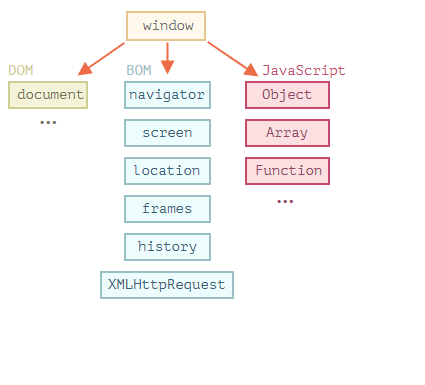
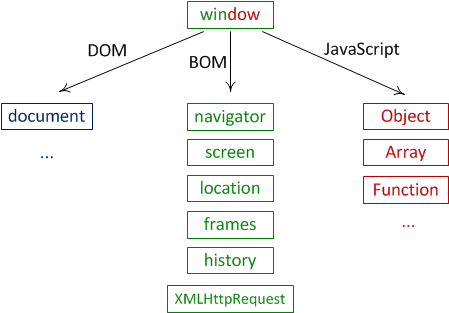
docs : Update contents

diff --git a/WEB/Document Object Model.md b/WEB/Document Object Model.md
@@ -1,0 +1,138 @@
+# DOM(Document Object Model)
+
+> DOM(문서 객체 모델 : Document Object Model)
+
+텍스트 파일로 만들어져 있는 웹 문서를 브라우저에 렌더링하려면 웹 문서를 브라우저가 이해할 수 있는 구조로 메모리에 올려야 한다. 브라우저의 렌더링 엔진은 웹 문서를 로드한 후, 파싱하여 웹 문서를 브라우저가 이해할 수 있는 구조로 구성하여 메모리에 적재하는 데 이를 DOM이라고 한다. 즉, **모든 요소와 요소의 속성, 텍스트를 각각의 객체로 만들고 이들 객체를 부모 관계로 표현할 수 있는 트리 구조로 구성한 것이 DOM이다.** DOM은 자바스크립트를 통해 동적으로 변경할 수 있으며 변경된 DOM은 렌더링에 반영된다.
+
+<center>
+
+![dom](../images/web_dom.png)
+<small>브라우저는 웹 문서(HTML, XML, SVG)를 로드한 후, 파싱하여 DOM을 생성한다.</small>
+
+</center>
+
+DOM은 자바스크립트가 자신에게 접근해서 수정하는 방법을 제공하는데 이를 DOM API(Application Programming Interface)라고 부른다. 이 말인즉슨 정적인 웹 페이지에 접근하여 동적으로 웹 페이지를 변경하기 위한 방법은 메모리 상에 존재하는 DOM을 변경하는 것이고, 이때 필요한 것이 DOM에 접근하고 변경하는 프로퍼티와 메서드의 집합인 DOM API이다.
+
+<center>
+
+DOM은 HTML과 JavaScript를 이어주는 진입점과 같은 역할을 한다.
+
+![dom-sceond](..images/../../images/web_dom2.png)
+
+</center>
+
+# DOM tree
+
+![dom-tree](../images/web_dom_tree.png)
+
+DOM tree는 브라우저가 HTML 문서를 로드한 후 파싱하여 생성하는 모델을 의미한다. 계층 간의 구조가 나무가 뿌리를 내리듯이 위에서 아래로 뻗는 형태로 되어 있는데 이것을 나무에 비유해서 DOM tree라고 표현한다.
+
+DOM에서 모든 요소, 속성, 텍스트는 하나의 객체이며 각각의 객체를 노드(Node)라고 칭한다. 모든 노드는 document 객체의 자식이다. 또한 각 노드 간의 위치 관계를 `부모 노드(parent node), 자식 노드(child node), 형제 노드(sibling node)`로 표현할 수 있다.
+
+- document
+  - parent node
+    - child node
+    - sibling node
+
+DOM tree는 대표적으로 네 종류의 노드로 구성된다.
+
+- 문서 노드 (Document Node) : DOM tree의 최상위 노드
+
+  - 각각의 요소, 속성, 텍스트 노드에 접근하려면 문서 노드를 통해야 함.
+
+- 요소 노드 (Element Node) : HTML 태그를 표현하는 노드
+
+  - ex. `<body>, <h1>, <p>` 등과 같은 각종 tags
+
+- 어트리뷰트 노드(Attribute Node) : HTML 요소의 속성을 표현하는 노드
+
+  - 해당 요소 노드를 찾아 접근하면 속성을 수정할 수 있다.
+
+- 텍스트 노드 (Text Node) : 문자를 표현하는 노드
+  - ex. `<h1> tag 내부의 안녕하세요` 와 같은 문자
+  - 요소 노드의 자식 요소가 되며 따로 자식 노드를 가질 수 없다.
+  - 이를 나무의 잎사귀에 비유해서 leaf node라고 부르기도 한다.
+
+## 접근 메서드
+
+id 속성으로 노드 선택하기
+
+```js
+document.getElementById("id");
+// 하나의 id tag를 선택할 때 사용된다.
+```
+
+class 속성으로 노드 선택하기
+
+```js
+document.getElementsByClassName("class");
+// 여러 tag를 한 번에 선택할 때 사용된다.
+```
+
+css 선택자로 노드 선택하기
+
+```js
+document.querySelector("(#, .) css selector");
+// 하나의 요소 선택
+document.querySelectorAll("(#, .) css selector");
+// 여러 개의 요소 선택
+```
+
+## DOM 이동 시 활용 가능한 탐색 프로퍼티
+
+탐색 프로퍼티를 사용하면 이웃 노드로 바로 이동할 수 있다.
+
+- 모든 노드에 적용 가능
+
+  |       프로퍼티       |   유형    |                       결과                       |
+  | :------------------: | :-------: | :----------------------------------------------: |
+  |   node.childNodes    | 자식 노드 |         node의 자식 노드 모음(NodeList)          |
+  |   node.firstChild    | 자식 노드 |          node의 첫 번째 자식 노드 하나           |
+  |    node.lastChild    | 자식 노드 |           node의 마지막 자식 노드 하나           |
+  |   node.parentNode    | 부모 노드 |              node의 부모 요소 하나               |
+  | node.previousSibling | 형제 노드 | node의 이전(previous) 혹은 좌측에 있는 노드 하나 |
+  |   node.nextSibling   | 형제 노드 |   node의 다음(next) 혹은 우측에 있는 노드 하나   |
+
+- 요소 노드에만 적용 가능
+  | 프로퍼티 | 유형 | 결과 |
+  | :----------------------------: | :------------: | :-------------------------------------------------: | --- |
+  | element.children | 자식 요소 노드 | element의 자식 요소 모음(HTMLCollection) |
+  | element.firstElementChild | 자식 요소 노드 | element의 첫 번째 자식 요소 하나 | |
+  | element.lastElementChild | 자식 요소 노드 | element의 마지막 자식 요소 하나 | |
+  | element.parentElement | 부모 요소 노드 | element의 부모 요소 하나 | |
+  | element.previousElementSibling | 형제 요소 노드 | element의 이전(previous) 혹은 좌측에 있는 요소 하나 | |
+  | element.nextElementSibling | 형제 요소 노드 | element의 다음(next) 혹은 우측에 있는 요소 하나 |
+  | |
+
+## HTML 콘텐츠 조작
+
+HTML 문서를 객체로 표현한 DOM의 각 노드들은 다양한 프로퍼티를 갖고 있다. HTML 콘텐츠를 조작하기 위해 아래와 같은 메서드를 사용할 수 있다.
+
+innerHTML 프로퍼티
+
+```js
+const myTag = document.querySelector("#list-1");
+myTag.innerHTML = "value";
+```
+
+- 요소 노드 내부의 HTML 코드를 문자열로 리턴해준다.
+- 마크업도 포함된다.
+
+outerHTML 프로퍼티
+
+```js
+const myTag = document.querySelector("#list-1");
+myTag.outerHTML = "value";
+```
+
+- 해당 요소를 포함한 전체의 요소를 HTML 코드를 문자열로 리턴해준다.
+
+textContent 프로퍼티
+
+```js
+const myTag = document.querySelector("#list-1");
+myTag.textContent = "value";
+```
+
+- 요소의 텍스트를 변경한다. textContent를 통해 새로운 텍스트를 할당하면 텍스트를 변경할 수 있다.
+- 마크업을 포함하면 문자열로 인식되어 그대로 출력된다.

diff --git a/WEB/브라우저 환경과 호스트.md b/WEB/브라우저 환경과 호스트.md
@@ -1,23 +1,28 @@
-# 브라우저 환경
+# 브라우저 환경과 호스트
 
 자바스크립트는 본래 `웹 브라우저`에서 사용하려고 만든 프로그래밍 언어이다. `Node.js`의 등장으로 자바스크립트는 웹 브라우저에만 국한되는 것이 아니라 서버 사이드 애플리케이션 개발에도 사용되며 다양한 사용처와 플랫폼을 지원하는 언어로 변모하였다.
 
-## 호스트(HOST)
+자바스크립트가 돌아가는 플랫폼을 `호스트(host)`라고 부른다. 호스트 환경은 기본적으로 코어 언어(ECMAScript)를 제공하며 특정 플랫폼에서 제공하는 객체와 함수를 제공한다.
 
-자바스크립트가 돌아가는 플랫폼을 `호스트(host)`라고 부른다. 호스트 환경은 기본적으로 코어 언어(ECMAScript)를 제공하며 특정 플랫폼에서 제공하는 객체와 함수를 제공한다. EX) 웹 브라우저는 Wep APIs를 제공하고 Node.js는 서버 사이드와 관련된 기능을 제공함.
-
-- 호스트 환경은 브라우저, 웹 서버 등 심지어는 커피머신이 될 수도 있다.
+- EX) 웹 브라우저는 Wep APIs를 제공하고 Node.js는 서버 사이드와 관련된 기능을 제공함. 호스트 환경은 브라우저, 웹 서버 등 심지어는 커피머신이 될 수도 있다.
 
 ### 대표적인 호스트인 웹 브라우저
 
+<center>
+
 ![web_browser_host](../images/web_browser_host.png)
+
+</center>
+웹 브라우저의 구성 요소들은 하나하나 객체화되어 있다. 자바스크립트로 이 객체를 제어해서 웹 브라우저를 제어할 수 있게 된다. 이 객체들은 서로 계층적인 관계로 구조화되어 있다. BOM과 DOM은 이 구조를 구성하고 있는 가장 큰 틀의 분류라고 할 수 있다.
 
 - **window** :
   `window` 객체는 브라우저 창을 대변하면서 자바스크립트에서 최상단에 존재하는 객체이다. `(브라우저 객체 모델(BOM)에 기반하여 만들어진 최상위 객체)`자바스크립트 코드 어느 곳에서나 항상 접근할 수 있는 객체이기 때문에 전역 객체(global object)라고 부른다. 자바스크립트의 모든 객체, 전역 함수, 전역 변수들은 자동으로 window 객체의 프로퍼티가 된다. 어떤 프로퍼티나 메서드를 사용하든 결국 전역 객체 내부의 것이기 때문에 앞에 window.을 생략할 수도 있다.
 
-  - **DOM(Document Object Model)** : DOM은 문서 객체 모델로 간단하게 표현해서 웹 페이지에 나타나는 HTML 문서 전체를 객체로 표현한 것이다.
-  - **BOM(Browser Object Model)** : BOM은 웹 브라우저에서 window 객체를 최상위로 하는 객체 모델의 일종이다. 산하로는 아래와 같은 대표적인 객체들이 있다.
+  - **DOM(Document Object Model)** : 웹 페이지의 내용을 제어한다. window의 프로퍼티인 document 프로퍼티에 할당된 Document 객체가 이러한 작업을 담당한다.
+  - **BOM(Browser Object Model)** : 웹 페이지의 내용을 제외한 브라우저의 각종 요소들을 객체화시킨 것이다. 전역객체 Window의 프로퍼티에 속한 객체들이 이에 속한다.
     - navigator
     - location
     - history
-  - **JavaScript** : 서로 다른 환경에서 자바스크립트가 공통으로 동작할 수 있도록 ECMAScript에서 표준화를 지원한다.
+    - XMLHttpRequest
+    - screen
+  - **JavaScript** : 자바스크립트 언어 자체에 정의되어 있는 객체들이다. (ECMAScript 표준)

diff --git a/TIL (Today I Learned)/ February/210201_TIL.md b/TIL (Today I Learned)/ February/210201_TIL.md
@@ -1,0 +1,34 @@
+# 2월의 시작
+
+2월이 시작되었다. 1월 1일부터 다시 개발 공부를 하기로 마음을 먹고 하루의 끝에서 TIL(오늘 한 일, 내일 할 일, 느낀 점)을 작성했다.
+
+짧은 한 달 동안 TIL을 진행하면서 느낀 바는 아래와 같다.
+
+### 긍정적인 측면
+
+- 개발 공부를 꾸준히 했다.
+- 온전히 앉아서 공부하는 시간을 늘렸다.
+- 개발자가 꼭 되고 싶다는 목표와 더 나아가서는 좋은 개발자가 되어 오랫동안 개발을 하고 싶다고 생각하게 되었다.
+- 무기력하게 늘어져 사색에 잠기는 시간이 줄어들었다.
+
+### 안타까운 점
+
+- 개발 공부를 했지만, 흩어진 조각의 퍼즐을 완전히 끼워 맞추지 못 했다. 즉 효율적으로 공부를 하지 못했다. `기억보단 기록을`이라는 말의 뜻을 몸소 체험한 한 달을 보냈다. 기억은 절대 기록을 이길 수 없다.
+  - 강의를 예로 들어서 전체적으로 개념을 한 번 훑고 그다음에는 중요 포인트를 기록하며 듣고 마지막으로 내용 정리를 하며 복습 차원에서 듣는 방법이 효과적이었던 것 같다.
+- 공부하면서 TIL에 내용 정리를 할 때 완성된 글을 작성해야겠다는 생각이 앞서서 시간을 지체했다.
+- 개념 정리를 바탕으로 코딩을 해야 했는데 대부분을 개념 정리만 했다.
+  - 한 사이클 정리는 되었지만, 완벽히 정리되지 않은 채로 퍼즐이 맞춰지지 않은 상태임.
+- 아침형 인간이 되지 못 했다.
+
+  - 잠이 안 오면 늦게까지 공부를 했는데, 늦게 잔 만큼 늦게 일어났다.
+
+- TIL을 해야 한다는 압박감 때문에 한 공부에 집중하지 못 했다. 또한 중간에 긴장을 느슨하게 놓아버린 때도 있었다.
+
+### 개선해야 할 점
+
+- 아침형 인간이 되어야 한다. 일찍 자고, 꾸준히 운동해서 건강한 체력을 유지하자.
+- 너무 쫄지 말자. 모르는 게 있어도 부딪히면서 배우자. 일단 해! 마인드를 장착하자. 부딪히고 깨지면서 익히자.
+- 2월은 각종 예제와 미니 프로젝트를 진행하면서 코딩 감각을 익히는 것에 중점을 두자. 코딩하면서 모르는 건 그때 그때 정리하자! 제발! [리마인드!](<https://github.com/sunghyunjeonme/TIL/blob/master/TIL%20(Today%20I%20Learned)/January/210102_TIL.md>)
+- 자신에게 솔직해지자. TIL을 위한 TIL은 지양해야 한다.
+- 블로그 포스팅은 주 1회를 목표로 주제를 정해서 하자. (포스팅을 위한 공부도 공부)
+- 아침 한 시간 동안 꾸준히 할 수 있는 무언가를 만들자. (컴퓨터 공학 공부 등)

diff --git a/TIL (Today I Learned)/TIL (Today I Learned).md b/TIL (Today I Learned)/TIL (Today I Learned).md
@@ -4,3 +4,5 @@
 
 마음을 새롭게 다지면서 TIL을 시작한다. 일일 회고를 통해서 무엇을 한 가지 해내면 긴장을 쉽게 풀어버리는 습관을 개선해보려고 한다.
 
+- [2021년 1월의 일일 회고](<https://github.com/sunghyunjeonme/TIL/tree/master/TIL%20(Today%20I%20Learned)/January>)
+- [2021년 2월의 일일 회고](<https://github.com/sunghyunjeonme/TIL/tree/master/TIL%20(Today%20I%20Learned)/February>)

diff --git a/README.md b/README.md
@@ -16,6 +16,8 @@
 
 ## TIL (Today I Learned)
 
+- [#일일회고](<https://github.com/sunghyunjeonme/TIL/blob/master/TIL%20(Today%20I%20Learned)/TIL%20(Today%20I%20Learned).md>)
+
 ## Categories
 
 ## Algorithm
